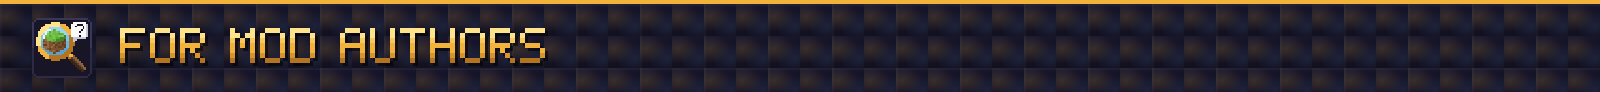
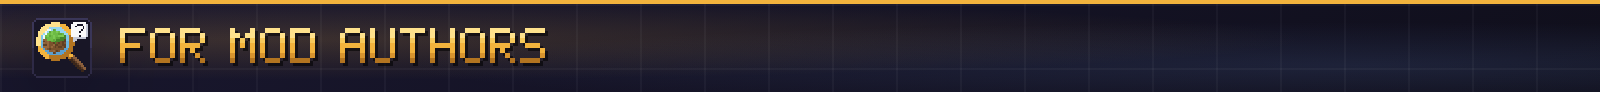
Smaller description images and the new Modern theme in the branding
The description banner, themes strip and section headers are now 800 wide and
short, saved at 2x, so they sit inline instead of filling the screen. The theme
images use the current palette: Modern first as the default, orange line,
square corners, all at 80% opacity. The render script crops from a taller
window because headless Chrome hangs on very short ones.

diff --git a/branding/source/banners.html b/branding/source/banners.html
@@ -274,7 +274,7 @@ const ASSETS = {
     const p = PANELS.crop(); p.style.cssText += ";zoom:.5;transform:rotate(-2deg)"; r.append(p);
   }],
   themes_strip: [800, 150, (r) => {
-    const bg = scene(1600, 300, 48, 2, false); half(bg); bg.style.cssText = "position:absolute;inset:0";
+    const bg = scene(1600, 300, 48, 2, false); bg.style.cssText = "position:absolute;left:0;top:0"; half(bg);
     r.append(bg);
     const row = el("div", {style: "position:absolute;left:0;right:0;top:12px;display:flex;justify-content:center;gap:8px"});
     for (const t of THEMES) {

diff --git a/branding/source/render_banners.py b/branding/source/render_banners.py
@@ -6,6 +6,8 @@ import subprocess
 import tempfile
 from pathlib import Path
 
+from PIL import Image
+
 HERE = Path(__file__).resolve().parent
 OUT = HERE.parent / "banners"
 # Chrome, not Edge: Edge is redirected by another program on this PC.
@@ -27,9 +29,22 @@ OUT.mkdir(parents=True, exist_ok=True)
 page = (HERE / "banners.html").as_uri()
 for name, (w, h, scale) in ASSETS.items():
     target = OUT / f"{name}.png"
-    subprocess.run([
-        CHROME, "--headless=new", "--disable-gpu", "--hide-scrollbars", f"--force-device-scale-factor={scale}",
-        "--allow-file-access-from-files", f"--user-data-dir={PROFILE}", "--virtual-time-budget=2000",
-        f"--window-size={w},{h}", f"--screenshot={target}", f"{page}#{name}",
-    ], check=True, capture_output=True, timeout=90)
+    # Headless Chrome can hang on very short windows, so render at least 400 tall and crop.
+    win_h = max(h, 400)
+    for attempt in range(2):
+        try:
+            subprocess.run([
+                CHROME, "--headless=new", "--disable-gpu", "--hide-scrollbars", f"--force-device-scale-factor={scale}",
+                "--allow-file-access-from-files", f"--user-data-dir={PROFILE}", "--virtual-time-budget=2000",
+                f"--window-size={w},{win_h}", f"--screenshot={target}", f"{page}#{name}",
+            ], check=True, capture_output=True, timeout=60)
+            break
+        except subprocess.TimeoutExpired:
+            if attempt:
+                raise
+    if win_h != h:
+        with Image.open(target) as im:
+            cropped = im.crop((0, 0, w * scale, h * scale))
+            cropped.load()
+        cropped.save(target, optimize=True)
     print("wrote", target.name)
